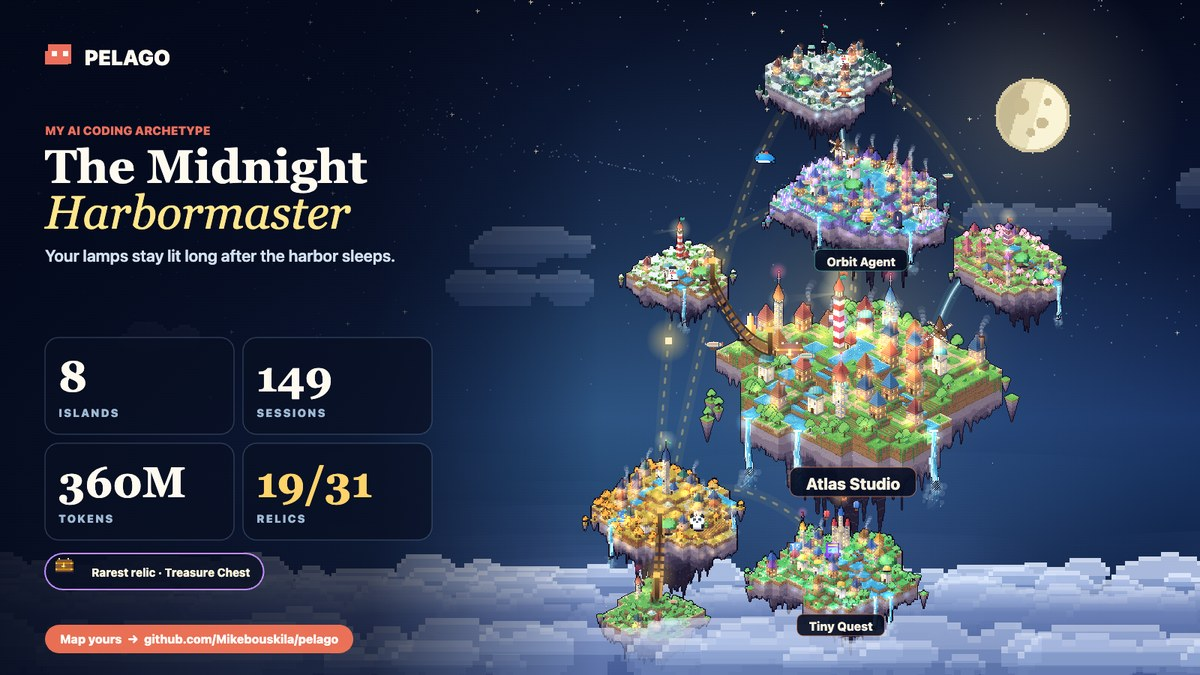
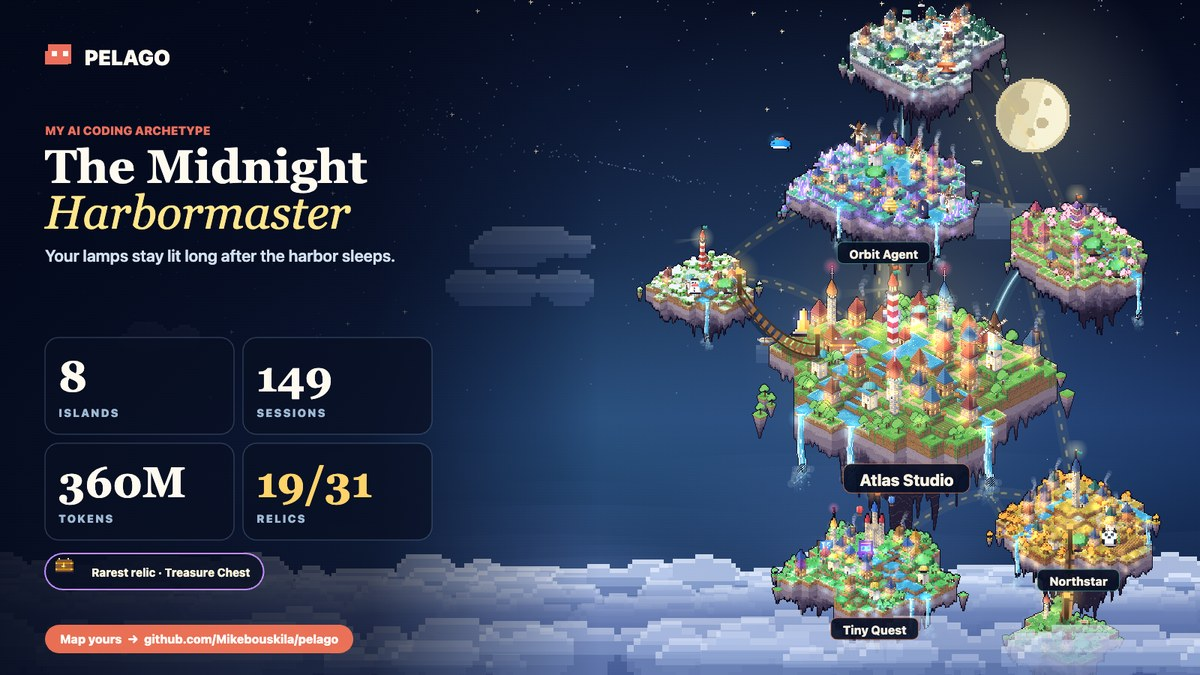
Share cards: the whole archipelago, bleeding off the edges around the capital

Changed region(s): [[0.4625, 0.0, 0.9867, 0.9644]]

diff --git a/assets/world.js b/assets/world.js
@@ -179,12 +179,13 @@ function renderCard(canvas, format = state.format, selected = state.exportSelect
 
   // 1. The archipelago: the capital as the hero, the next biggest islands packed tight around it.
   const ranked = [...PROJECTS].sort((a, b) => b.activity - a.activity);
-  const shown = selected ? [selected] : ranked.slice(0, tall ? 9 : square ? 8 : 11);
+  const shown = selected ? [selected] : ranked;
   const hero = selected || ranked[0];
-  const factors = new Map(shown.map((project, index) => [project.id, project === hero ? (selected ? 1 : 1.75) : index < 4 ? 1.08 : .95]));
-  const box = tall ? { left: 4 * scale, right: 4 * scale, top: height * .19, bottom: height * .27 }
-    : square ? { left: 8 * scale, right: 8 * scale, top: height * .3, bottom: height * .29 }
-      : { left: width * .38, right: 12 * scale, top: 20 * scale, bottom: 50 * scale };
+  const factors = new Map(shown.map((project, index) => [project.id, project === hero ? (selected ? 1 : 1.6) : index < 6 ? 1.05 : .92]));
+  const bleed = selected ? 0 : width * (tall ? .3 : square ? .16 : .1);
+  const box = tall ? { left: -bleed, right: -bleed, top: height * .2, bottom: height * .25 }
+    : square ? { left: -bleed, right: -bleed, top: height * .31, bottom: height * .26 }
+      : { left: width * .4, right: -bleed, top: -height * .04, bottom: 20 * scale };
   const items = makeLayout(width, height, shown, { ...box, hang: selected ? .8 : .32, maxSize: 4000, factors });
   const flat = { transform: { x: 0, y: 0, scale: 1 }, detail: true, selected: false, hovered: false };
   const pixel = items[0]?.px || 1;
@@ -201,8 +202,16 @@ function renderCard(canvas, format = state.format, selected = state.exportSelect
   if (!selected) drawConnections(context, items, flat.transform, time, pixel, 'bridges');
   drawCloudSea(context, width, height, time, true);
   if (showNames && !selected) {
-    const named = new Set(ranked.slice(0, tall ? 4 : 3).map((project) => project.id));
-    items.filter((item) => named.has(item.project.id)).forEach((item) => drawIslandLabel(context, item, { ...flat, labelScale: scale * (item === heroItem ? 1.35 : 1) * (tall ? 2.6 : wide ? 1.6 : 2.1) }));
+    // Label the biggest islands whose name fits fully inside the card.
+    const labelScale = (item) => scale * (item === heroItem ? 1.35 : 1) * (tall ? 2.6 : wide ? 1.6 : 2.1);
+    const fits = (item) => {
+      const size = clamp(item.size * .085, 10 * labelScale(item), 15 * labelScale(item));
+      context.font = `800 ${size}px ui-sans-serif, system-ui`;
+      const half = (context.measureText(item.project.name).width + size * 2) / 2;
+      return item.x - half > 12 * scale && item.x + half < width - 12 * scale;
+    };
+    items.filter((item) => item === heroItem || fits(item)).sort((a, b) => b.project.activity - a.project.activity).slice(0, tall ? 5 : 4)
+      .forEach((item) => drawIslandLabel(context, item, { ...flat, labelScale: labelScale(item) }));
   }
   const hidden = PROJECTS.length - shown.length;
   if (hidden > 0 && !selected && !wide) {
@@ -225,7 +234,7 @@ function renderCard(canvas, format = state.format, selected = state.exportSelect
     side.addColorStop(0, 'rgba(4,9,26,.92)'); side.addColorStop(.62, 'rgba(4,9,26,.7)'); side.addColorStop(1, 'rgba(4,9,26,0)');
     context.fillStyle = side; context.fillRect(0, 0, width * .5, height);
   } else {
-    scrim(0, height * (tall ? .25 : .3), 'rgba(4,9,26,.94)', 'rgba(4,9,26,0)');
+    scrim(0, height * (tall ? .27 : .34), 'rgba(4,9,26,.96)', 'rgba(4,9,26,0)');
     scrim(height, height * (tall ? .7 : .66), 'rgba(4,9,26,.96)', 'rgba(4,9,26,0)');
   }
 
